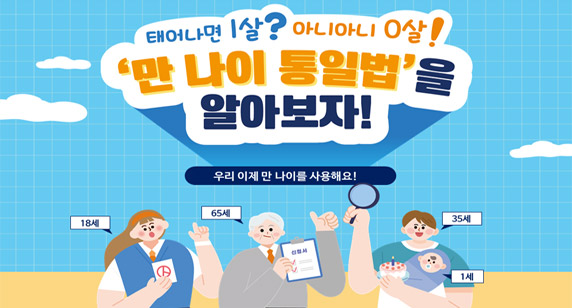
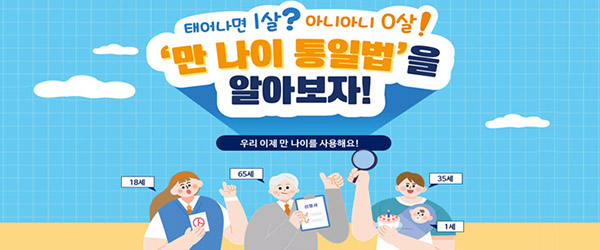
moblie

diff --git a/mobile/style/style.css b/mobile/style/style.css
@@ -4,7 +4,8 @@
 .wrap{
     width: 100%;
     max-width: 640px;
-    margin: auto;
+    padding-left: 20px;
+    padding-right: 20px;
 }
 
 /* ====================================
@@ -37,7 +38,7 @@
     ======= header ======    
 ==================================== */
 header{
-    width: 100%;
+    width: 600px;
     height: calc(var(--row) * 5);
     position: relative;
 }
@@ -69,7 +70,8 @@ header a{
     text-align: center
 }
 .nav li a{
-    font-size: 1.8rem;
+    -webkit-text-size-adjust: auto;
+    /* font-size: 1.8rem; */
 }
 
 .gnb{
@@ -95,6 +97,7 @@ header a{
     justify-content: space-between;
 }
 .icon a i{
+    -webkit-text-size-adjust: auto;
     font-size: 4.8rem;
     color: #007cc380;
     line-height: 1.8rem;
@@ -103,18 +106,18 @@ header a{
     ======= main ======    
 ==================================== */
 main{
-    width: 100%;
+    width: 600px;
     position: relative;
 }
 .banner{
     width: 100%;
     height: calc(var(--row) * 13);
-    background:url(../imgs/main_banner2.png) no-repeat center/150%;
+    background:url(../imgs/main_banner2.jpg) no-repeat center/100%;
     position: relative;
 }
 .bar{
     position: absolute;
-    right: -10%;
+    right: -5%;
     bottom: 10%;
     transform: translateX(-50%);
 }
@@ -130,6 +133,7 @@ main{
     row-gap: 20%;
 }
 .exp p i{
+    -webkit-text-size-adjust: auto;
     font-size: 2.4rem;
     color: #007cc380;
 }
@@ -143,17 +147,20 @@ main{
     width: 90%;
 }
 .banner_text h3{
+    -webkit-text-size-adjust: auto;
     font-size: 2.4rem;
     color: var(--text2);
     font-weight: bold;
     padding-top: 3.5%;
 }
 .banner_text span{
+    -webkit-text-size-adjust: auto;
     font-size: 1.2rem;
     color: var(--text4);
     line-height: 3.4rem;
 }
 .sub_text p{
+    -webkit-text-size-adjust: auto;
     font-size: 1.6rem;
     margin-right: 1rem;
     color: var(--text1);
@@ -171,6 +178,7 @@ main{
     position: relative;
 }
 .exh{
+    -webkit-text-size-adjust: auto;
     color: #007cc380;
     font-weight: bold;
     font-size: 3.2rem;
@@ -205,9 +213,6 @@ main{
     box-shadow: rgba(0, 0, 0, 0.3) 4px 8px 10px 0px
 }
 .exhibit .caption h2{
-    /* color: var(--text2);
-    font-size: 3rem;
-    font-weight: bold; */
     display: none;
 }
 .exhibit .coment{
@@ -215,15 +220,18 @@ main{
     line-height: 2.8rem;
 }
 .exhibit .coment h4{
+    -webkit-text-size-adjust: auto;
     font-size: 2rem;
     color: var(--text2);
 
 }
 .exhibit .coment p{
+    -webkit-text-size-adjust: auto;
     font-size: 1.4rem;
     color: var(--text1);
 }
 .exhibit .coment span{
+    -webkit-text-size-adjust: auto;
     font-size: 1.4rem;
     color: var(--text4);
 }
@@ -266,6 +274,7 @@ main{
     justify-content: space-between;
 }
 .content2 .exhibit li:last-child .coment h4 {
+    -webkit-text-size-adjust: auto;
     font-size: 1.6rem;
     font-weight: bold;
     color: var(--text2);
@@ -279,6 +288,7 @@ main{
     justify-content: space-between;
 }
 .content3 .exhibit .coment h4{
+    -webkit-text-size-adjust: auto;
     font-size: 1.8rem;
 }
 
@@ -302,6 +312,7 @@ main{
     align-items: center;
 }
 .menubox1top i{
+    -webkit-text-size-adjust: auto;
     font-size: 2.4rem;
     right: -20px;
     bottom: -10px;
@@ -315,6 +326,7 @@ main{
     position: relative;
 }
 .menubox1top label{
+    -webkit-text-size-adjust: auto;
     margin-left: 2rem;
     font-size: 2.4rem;
     line-height: 5rem;
@@ -337,6 +349,7 @@ main{
 
 .notice1 li span,
 .notice3 li span{
+    -webkit-text-size-adjust: auto;
     color: var(--text4);
     font-size: 1.4rem;
 }
@@ -363,14 +376,17 @@ main{
 .notice2 li span,
 .notice4 li span
 {
+    -webkit-text-size-adjust: auto;
     color: var(--text4);
     font-size: 1.2rem;
 }
 .menubox1 .p{
+    -webkit-text-size-adjust: auto;
     color: var(--text2);
     font-size: 1.4rem;
 }
 .menubox1 h2{
+    -webkit-text-size-adjust: auto;
     font-size: 3rem;
     color: var(--primary1);
     font-weight: bold;
@@ -424,6 +440,7 @@ main{
     height: calc(var(--row) * 15);
 }
 .menubox2top h2{
+    -webkit-text-size-adjust: auto;
     font-size: 3.2rem;
     color: white;
     font-weight: bold;
@@ -431,7 +448,7 @@ main{
 }
 .popupzone{
     width: 100%;
-    height: calc(var(--row) * 8);
+    height: 250px;
     margin-bottom: var(--row);
     padding: 2rem;
     background: url(../imgs/popupzone.jpg) no-repeat top;
@@ -448,7 +465,7 @@ main{
 .popupzone:before{
     position: absolute;
     width: 100%;
-    height: calc(var(--row) * 8);
+    height: 250px;
     content: '';
     background: #00000020;
     mix-blend-mode: multiply;
@@ -483,10 +500,11 @@ main{
     flex-direction: column;
 }
 .button i{
+    -webkit-text-size-adjust: auto;
     font-size: 3.2rem;
-    /* color: var(--primary1); */
 }
 .button h5{
+    -webkit-text-size-adjust: auto;
     color: var(--primary1);
     font-size: 2rem;
 }
@@ -538,6 +556,7 @@ main{
 
 /* notice */
 .content6_name{
+    -webkit-text-size-adjust: auto;
     color: #fff;
     font-weight: bold;
     font-size: 4rem;
@@ -577,6 +596,7 @@ main{
 }
 
 .photo_box p{
+    -webkit-text-size-adjust: auto;
     font-size: 1.6rem;
     line-height: 2.8rem;
     text-align: center;
@@ -602,7 +622,7 @@ main{
 ==================================== */
 footer{
     margin-top: calc(var(--row) * 3);
-    width: 100%;
+    width: 600px;
     height: calc(var(--row) * 20);
     position: relative;
     flex-direction: column;
@@ -616,6 +636,7 @@ footer{
     height: 20rem;
 }
 .f_section1 h3{
+    -webkit-text-size-adjust: auto;
     width: 100%;
     text-align: center;
     color: white;
@@ -625,18 +646,21 @@ footer{
     font-weight: bold;
 }
 .hub1 a{
+    -webkit-text-size-adjust: auto;
     width: 100%;
     height: var(--row);
     flex: 1 1 33%;
     text-align : center;
 }
 .hub2 a{
+    -webkit-text-size-adjust: auto;
     width: 100%;
     height: var(--row);
     flex: 1 1 50%;
     text-align: center;
 }
 .hub1 p, .hub2 p {
+    -webkit-text-size-adjust: auto;
     padding-top: 3rem;
     font-size: 1.6rem;
     color: var(--white);
@@ -768,10 +792,12 @@ footer{
     border: 1px solid #007cc381;
 }
 .footer_inner a{
+    -webkit-text-size-adjust: auto;
     font-size: 1.4rem;
     color: var(--text1);
 }
 .footer_inner h4{
+    -webkit-text-size-adjust: auto;
     padding-top: 3rem;
     color: #007cc39d;
     font-size: 2rem;
@@ -788,6 +814,7 @@ footer{
     flex: 1 1 20%;
 }
 .f_box li{
+    -webkit-text-size-adjust: auto;
     font-size: 1.6rem;
     line-height: 2.8rem;
     color: var(--text3);
@@ -822,6 +849,7 @@ footer{
     gap: 3rem;
 }
 .f3 p{
+    -webkit-text-size-adjust: auto;
     color: var(--text1);
     font-size: 1.6rem;
     text-align: center;
@@ -847,12 +875,14 @@ footer{
     height:  calc(var(--row) * 9);
 }
 .f4 p{
+    -webkit-text-size-adjust: auto;
     width: min(100%,640px);
     color: var(--text1);
     font-size: 1.6rem;
     line-height: 4.5rem;
 }
 .f4 span{
+    -webkit-text-size-adjust: auto;
     font-size: 1.2rem;
     color: var(--text4);
 }
